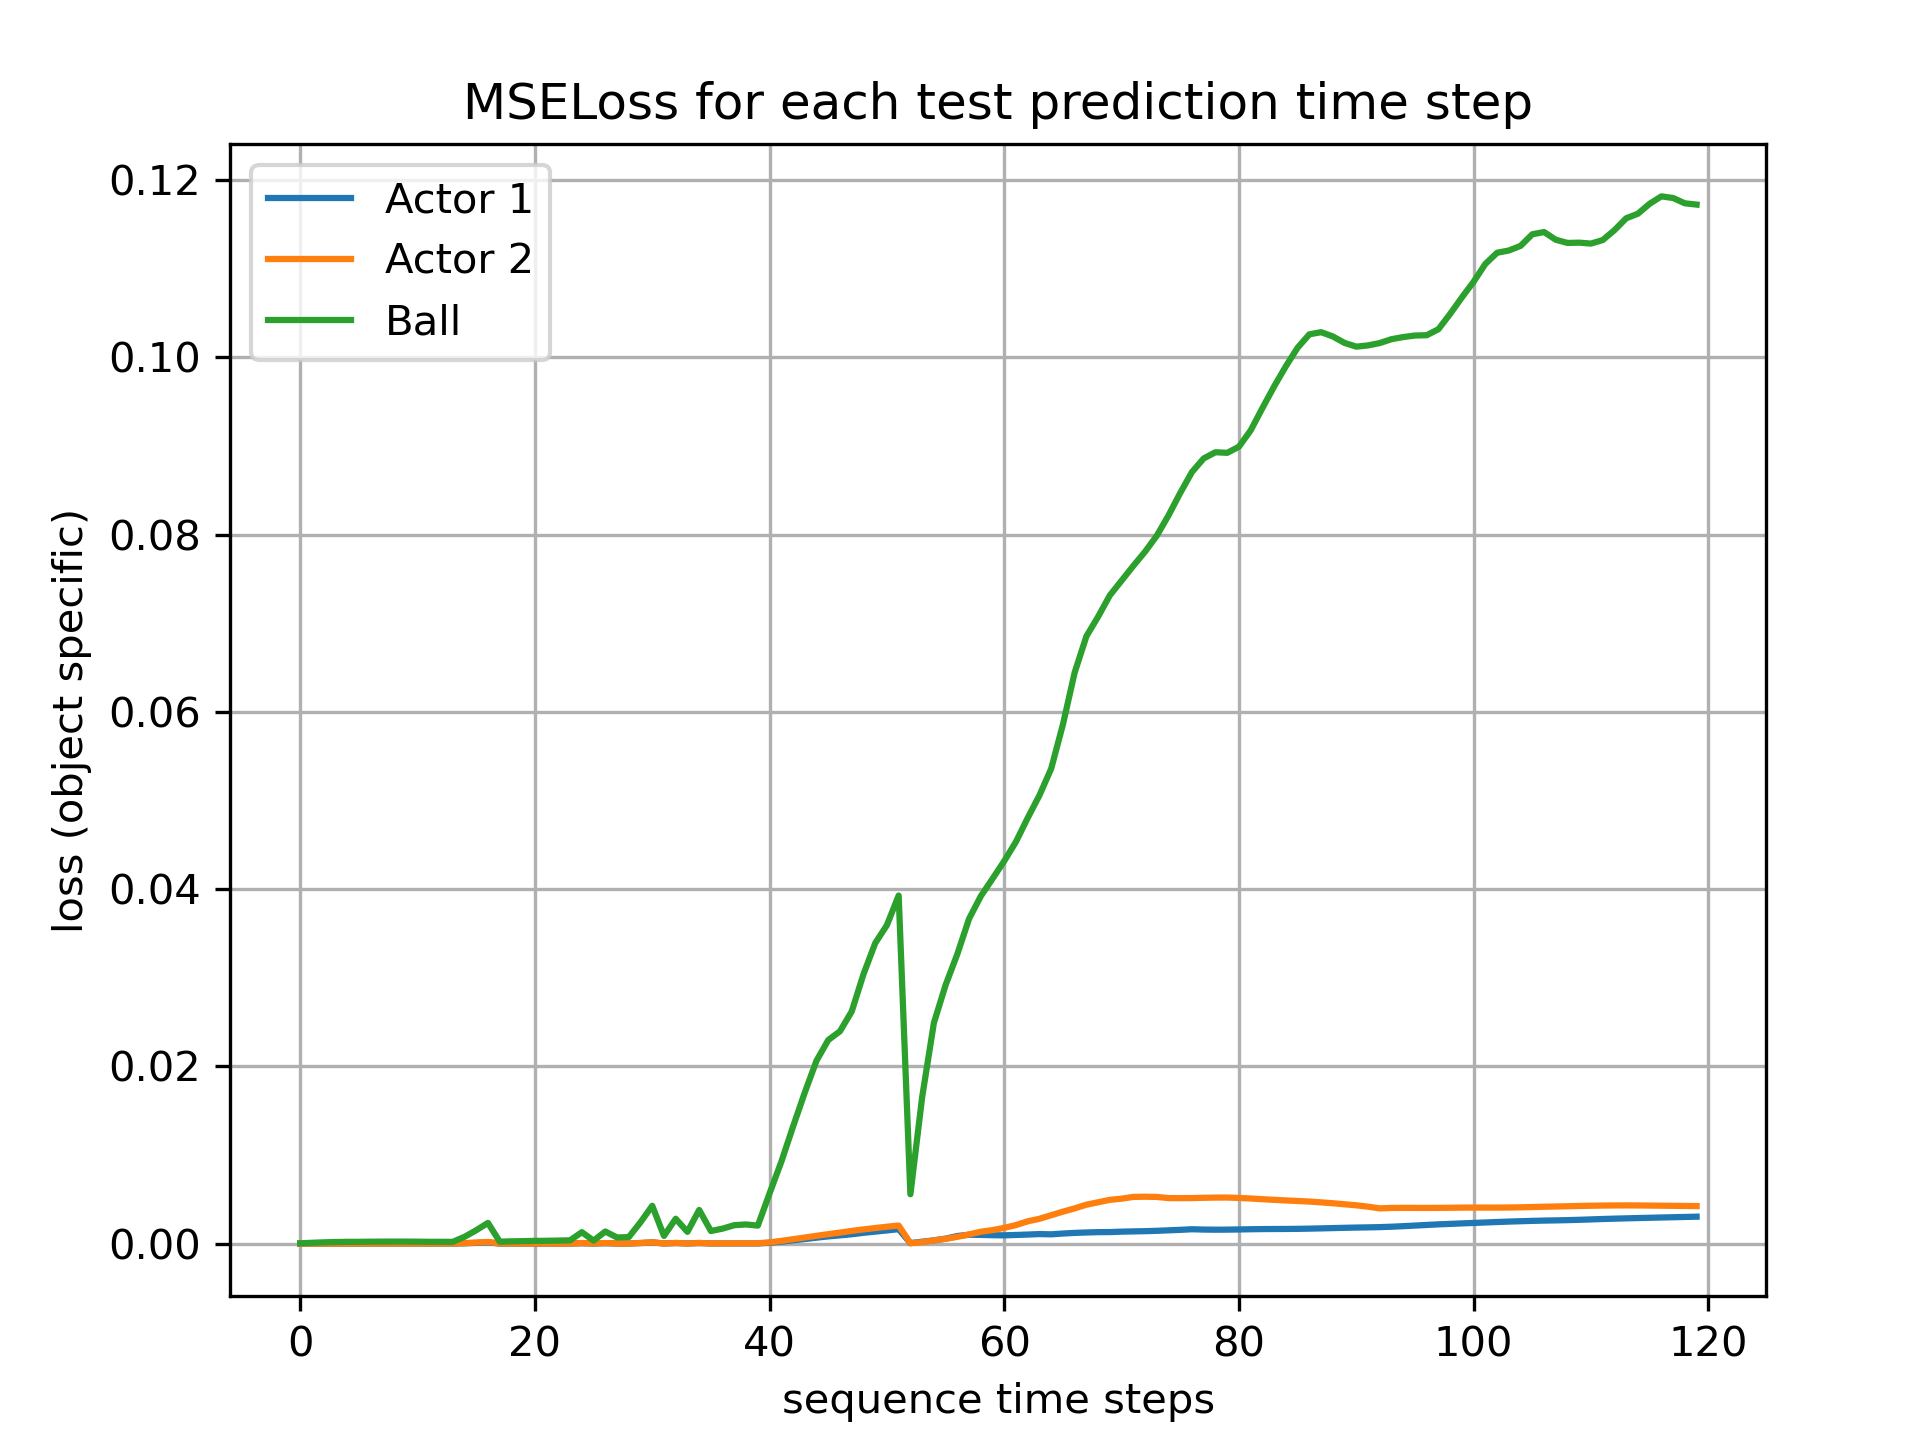
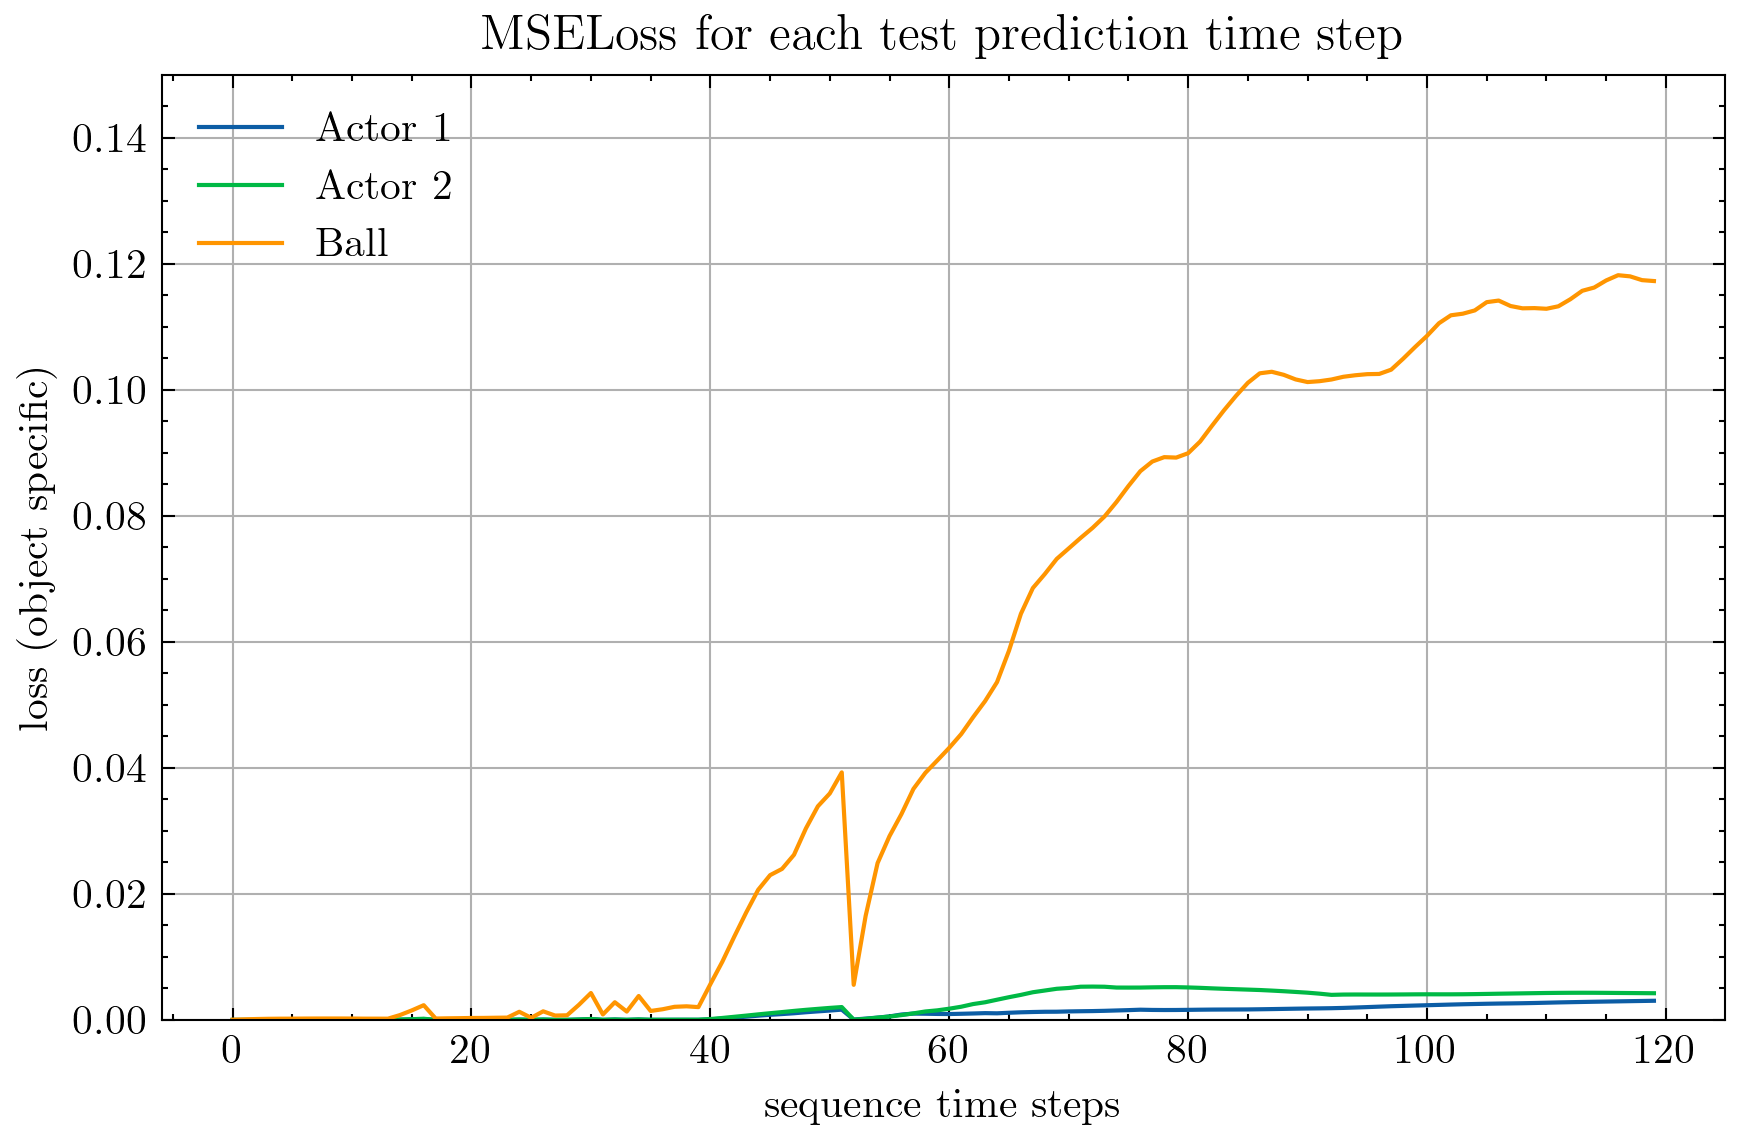
Add: Confusion Matrix, inference plots, science style

diff --git a/Interaction_Inference/interaction_inference.py b/Interaction_Inference/interaction_inference.py
@@ -4,10 +4,15 @@ from torch import nn
 import torch.nn.functional as F
 import numpy as np
 import matplotlib.pyplot as plt
+import scienceplots
 from numpy import random
 from torch.optim import Adam, AdamW, SGD
 from torch.utils.data import DataLoader, random_split
 from torch.nn import PairwiseDistance
+
+from sklearn.metrics import confusion_matrix, classification_report
+import seaborn as sns
+import pandas as pd
 
 pc_dir = "C:\\Users\\TimoLuebbing\\Desktop\\BindingInteractionSequences"
 laptop_dir = "C:\\Users\\timol\\Desktop\\BindingInteractionSequences"
@@ -17,6 +22,11 @@ sys.path.append(laptop_dir)
 
 from CoreLSTM.core_lstm import CORE_NET
 from Data_Preparation.interaction_dataset import TimeSeriesDataset
+
+plt.style.use('science')
+
+CLASSES = ['A', 'B', 'C', 'D']
+CLASSES_INT = [0, 1, 2, 3]
 
 
 class InteractionInference():
@@ -224,6 +234,7 @@ class InteractionInference():
             possibly hidden and/or cell state.
 
         """
+        inferences = []
         accuracies = []
         losses = []
         inference_losses = []
@@ -260,43 +271,101 @@ class InteractionInference():
                 losses.append(loss.clone().item())
                 inference_losses.append(inference_loss.clone().item())
                 accuracies.append(accuracy.clone().item())
+                inferences.append(int_inference.clone())
 
                 step_loss = loss.clone().item()
                 step_inf_loss = inference_loss.clone().item()     
                 if i % 5 == 0:
                     print(f"Inference step {i:3}: Loss: {step_loss:.6f} - Int. Inference Loss: {step_inf_loss:.6f} - Acc: {accuracy_percent:.3f}")
             
-        return int_inference, interaction, losses, inference_losses, accuracies
+        return inferences, interaction, losses, inference_losses, accuracies
     
     
     def plot_losses(self, losses, plot_path, show=True):
-        fig = plt.figure()
-        axes = fig.add_axes([0.12, 0.1, 0.8, 0.8]) 
-        axes.plot(losses[0], 'r')
-        axes.plot(losses[1], 'b')
+        fig, axes = plt.subplots(figsize=(6,4))
+        axes.plot(losses[0])
+        axes.plot(losses[1])
         axes.legend(['Network loss', 'Inference loss'])
-        axes.grid(True)
         axes.set_xlabel('inference steps')
         axes.set_ylabel('loss (log scaled)')
         axes.set_yscale('log')
         axes.set_title('History of loss during interaction inference')
         
+        plt.tight_layout()
         plt.savefig(f'{plot_path}_losses.png', dpi=300)
         if show:
             plt.show()
             
     def plot_accuracy(self, acc, plot_path, show=True):
-        fig = plt.figure()
-        axes = fig.add_axes([0.12, 0.1, 0.8, 0.8]) 
+        fig, axes = plt.subplots(figsize=(6,4))
         axes.plot(acc, 'r')
-        axes.grid(True)
         axes.set_xlabel('inference steps')
-        axes.set_ylabel('Accuracy (%)')
+        axes.set_ylabel('Accuracy $(\%)$')
         axes.set_title('Accuracy during interaction inference')
         
+        plt.tight_layout()
         plt.savefig(f'{plot_path}_accuracy.png', dpi=300)
         if show:
             plt.show()
+            
+    def plot_confusion_matrix(self, y_test, y_pred, plot_path, show=True):
+        cm = confusion_matrix(y_test, y_pred)
+        df_cm = pd.DataFrame(cm, index=CLASSES, columns=CLASSES)
+
+        fig, axes = plt.subplots(figsize=(6,4))
+        hmap = sns.heatmap(df_cm/np.sum(df_cm), annot=True, fmt=".2f", cmap='Blues')
+        hmap.yaxis.set_ticklabels(hmap.yaxis.get_ticklabels(), rotation=0, ha='right')
+        hmap.xaxis.set_ticklabels(hmap.xaxis.get_ticklabels(), rotation=0, ha='right')
+        hmap.tick_params(axis='both', which='both', length=0)
+        
+        plt.ylabel('True interaction label')
+        plt.xlabel('Inference prediction')   
+        plt.tight_layout()  
+        plt.savefig(f'{plot_path}_confusion.png', dpi=300)
+        if show:
+            plt.show()
+            
+    def plot_inference(self, inferences, labels, plot_path):
+        indeces = [labels.index(int_type) for int_type in CLASSES_INT]
+        
+        softmax_each_type = []
+        for index in indeces:
+            softmax = [F.softmax(inference * 10, dim=1)[index,:]
+                       for inference in inferences]
+            softmax = torch.stack(softmax, dim=1).tolist()
+            add_start_value = [
+                row.insert(0, 0.25) for row in softmax
+             ]
+            softmax_each_type.append(softmax)
+        #print(plt.style.available)
+        fig, axes = plt.subplots(2, 2, figsize=(8, 6))
+        #axes.grid(True)
+        for i in CLASSES_INT:
+            axes[0, 0].plot(softmax_each_type[0][i])
+            axes[0, 1].plot(softmax_each_type[1][i])
+            axes[1, 0].plot(softmax_each_type[2][i])
+            axes[1, 1].plot(softmax_each_type[3][i])
+            
+        #axes.legend(['A', 'B', 'C', 'D'])
+        # axes.set_xlabel('inference steps')
+        # axes.set_ylabel('inference (softmax)')
+        axes[0, 0].set_title('Interaction A')
+        axes[0, 1].set_title('Interaction B')
+        axes[1, 0].set_title('Interaction C')
+        axes[1, 1].set_title('Interaction D')
+        
+        for ax in axes.flat:
+            ax.set(xlabel='inference steps', 
+                   ylabel='inference (softmax)',
+                   ylim=[0, 1])
+        for ax in axes.flat:
+            ax.label_outer()
+        
+        fig.legend(['A', 'B', 'C', 'D'], loc=(0.87, 0.68))
+        
+        plt.tight_layout()
+        plt.savefig(f'{plot_path}_inference.png', dpi=300)
+        plt.show()
     
 def main():
     
@@ -314,8 +383,8 @@ def main():
     batch_size = 280
     timesteps = 121
     seed = 2023
-    no_forces = False
-    no_forces_no_orientation = True
+    no_forces = True
+    no_forces_no_orientation = False
     no_forces_out = False
     n_out = 12 if (no_forces or no_forces_out) else 18
     n_out = 6 if no_forces_no_orientation else n_out
@@ -360,7 +429,7 @@ def main():
     teacher_forcing_steps = 60
     teacher_forcing_dropouts = True
 
-    inference_steps = 50
+    inference_steps = 30
 
     mse_loss = nn.MSELoss()
     huber_loss = nn.HuberLoss()
@@ -375,10 +444,10 @@ def main():
 
     resnet60_no_orientation = 'core_res_lstm_2_3_5_256_HuberLoss()_0.001_0.0_270_1500_tfs60_tfd_nfno_ts121'
 
-    model_name = resnet60_no_orientation
+    model_name = resnet60_best_tuning
     model_save_path = f'CoreLSTM/models/{model_name}.pt'
-    # model_save_path = f'CoreLSTM/models/tuning/{model_name}.pt'
-    
+    model_save_path = f'CoreLSTM/models/tuning/{model_name}.pt'
+   
     model = CORE_NET(
         input_size=n_dim*n_features+n_independent+n_interactions, 
         batch_size=batch_size,
@@ -395,7 +464,7 @@ def main():
 
     optimizer = AdamW(
         params=params,
-        lr=0.02,
+        lr=0.05,
     )
 
     inference = InteractionInference(
@@ -411,15 +480,18 @@ def main():
     
     print(f"model.event_code.requires_grad = {model.event_code.requires_grad}")
 
-    int_inference, interaction, losses, inference_losses, accuracies = inference.infer_interactions(
-        # dataloader=train_dataloader
+    int_inferences, interaction, losses, inference_losses, accuracies = inference.infer_interactions(
         seq=seq,
         label=label,
         interaction=interaction,
     )
     
     with torch.no_grad():
+        
+        int_inference = int_inferences[-1]
+        int_inference2 = int_inferences[-2]
         print(int_inference[:5])
+        print(int_inference2[:5])
         print(torch.round(F.softmax(int_inference[:5] * 10, dim=1), decimals=2))
         print(interaction[:5])
         
@@ -428,6 +500,9 @@ def main():
         accuracy = correct / len(interaction)
         accuracy_percent = 100. * accuracy
         
+        interaction_label = interaction.cpu().tolist()
+        interaction_pred = inferece_pred.cpu().tolist()
+        
         print("\nFinal inference results: \n")
         print(f"Correct / Total = {correct} / {len(interaction)} = {accuracy:.4f}")
         print(f"Inference accuracy: {accuracy_percent:.4f} %")
@@ -435,10 +510,12 @@ def main():
         
         plot_path   = f"CoreLSTM/testing_predictions/inference/{model_name}"
         
+        print(classification_report(interaction_label, interaction_pred, target_names=CLASSES))
+        
         inference.plot_accuracy(accuracies, plot_path)
         inference.plot_losses([losses, inference_losses], plot_path)
-        
-        
+        inference.plot_confusion_matrix(interaction_label, interaction_pred, plot_path)
+        inference.plot_inference(int_inferences, interaction_label, plot_path)
     
         
         

diff --git a/CoreLSTM/test_core_lstm.py b/CoreLSTM/test_core_lstm.py
@@ -3,6 +3,7 @@ import torch
 from torch import nn
 import numpy as np
 import matplotlib.pyplot as plt
+import scienceplots
 from numpy import random
 from torch.utils.data import DataLoader
 from torch.nn import PairwiseDistance
@@ -19,6 +20,7 @@ from Data_Preparation.data_preparation import Preprocessor
 from Data_Preparation.interaction_dataset import TimeSeriesDataset
 from Data_Preparation.interaction_renderer import Interaction_Renderer
 
+plt.style.use('science')
 
 class LSTM_Tester():
 
@@ -330,47 +332,47 @@ class LSTM_Tester():
     
     
     def plot_losses_steps(self, losses, plot_path):
-        fig = plt.figure()
-        axes = fig.add_axes([0.12, 0.1, 0.8, 0.8]) 
+        fig, axes= plt.subplots(figsize=(6,4))
         axes.plot(losses, 'r')
         axes.grid(True)
         axes.set_xlabel('sequence time steps')
         axes.set_ylabel('loss')
-        # axes.set_yscale('log')
+        axes.set_ylim([0.0, 0.07])
         axes.set_title('MSELoss for each test prediction time step')
         
+        plt.tight_layout()
         plt.savefig(f'{plot_path}_losses.png', dpi=300)
         plt.show()
     
     
     def plot_losses_objects(self, object_losses, plot_path):
-        fig = plt.figure()
-        axes = fig.add_axes([0.12, 0.1, 0.8, 0.8]) 
+        fig, axes = plt.subplots(figsize=(6,4))
         for i in range(object_losses.shape[0]):
             axes.plot(object_losses[i]) 
-        axes.legend(['Actor 1', 'Actor 2', 'Ball'])
+        axes.legend(['Actor 1', 'Actor 2', 'Ball'], loc='upper left')
         axes.grid(True)
         axes.set_xlabel('sequence time steps')
         axes.set_ylabel('loss (object specific)')
-        # axes.set_yscale('log')
+        axes.set_ylim([0.0, 0.15])
         axes.set_title('MSELoss for each test prediction time step')
         
+        plt.tight_layout()
         plt.savefig(f'{plot_path}_obj_losses.png', dpi=300)
         plt.show()
     
         
     def plot_losses_types(self, type_losses, plot_path):
-        fig = plt.figure()
-        axes = fig.add_axes([0.12, 0.1, 0.8, 0.8]) 
+        fig, axes = plt.subplots(figsize=(6,4))
         for i in range(type_losses.shape[0]):
             axes.plot(type_losses[i]) 
-        axes.legend(['Coordinates', 'Orientation', 'Impact force'])
+        axes.legend(['Coordinates', 'Orientation', 'Impact force'], loc='upper left')
         axes.grid(True)
         axes.set_xlabel('sequence time steps')
         axes.set_ylabel('loss (type specific)')
-        # axes.set_yscale('log')
+        axes.set_ylim([0.0, 0.13])
         axes.set_title('MSELoss for each test prediction time step')
         
+        plt.tight_layout()
         plt.savefig(f'{plot_path}_type_losses.png', dpi=300)
         plt.show()
 

diff --git a/CoreLSTM/test_interactions.py b/CoreLSTM/test_interactions.py
@@ -14,7 +14,7 @@ from Data_Preparation.interaction_dataset import TimeSeriesDataset
 from CoreLSTM.test_core_lstm import LSTM_Tester
 
 
-def main(render=True):
+def main(render=False):
     
     interactions = ['A', 'B', 'C', 'D']
     interactions_num = [0, 1, 2, 3]
@@ -29,8 +29,8 @@ def main(render=True):
     batch_size = 280
     timesteps = 121
     seed = 2023
-    no_forces = False
-    no_forces_no_orientation = True
+    no_forces = True
+    no_forces_no_orientation = False
     no_forces_out = False
     n_out = 12 if (no_forces or no_forces_out) else 18
     n_out = 6 if no_forces_no_orientation else n_out
@@ -88,9 +88,9 @@ def main(render=True):
 
     resnet60_no_orientation = 'core_res_lstm_2_3_5_256_HuberLoss()_0.001_0.0_270_1500_tfs60_tfd_nfno_ts121'
 
-    model_name = resnet60_no_orientation
+    model_name = resnet60_best_tuning
     model_save_path = f'CoreLSTM/models/{model_name}.pt'
-    # model_save_path = f'CoreLSTM/models/tuning/{model_name}.pt'
+    model_save_path = f'CoreLSTM/models/tuning/{model_name}.pt'
     
     random_labels = True
 

diff --git a/toDo.md b/toDo.md
@@ -61,11 +61,13 @@
 - [x] interaction module
 - [x] init event codes raus weil kein sinn
 - [ ] lstm utils parent class
-- [ ] reset optim für jeden inference cycle?
 - [ ] besseres model trainieren 
-- [ ] nach latex template fragen
-- [ ] BA Aufbau besprechen
-- [ ] ohne orientierung
+- [x] nach latex template fragen
+- [x] BA Aufbau besprechen
+- [x] ohne orientierung
+- [ ] confusion matrix
+- [ ] inference plots event codes
+- [ ] y axis same scale
 
 Softmax auf interaction code * 10 angewendet
 
